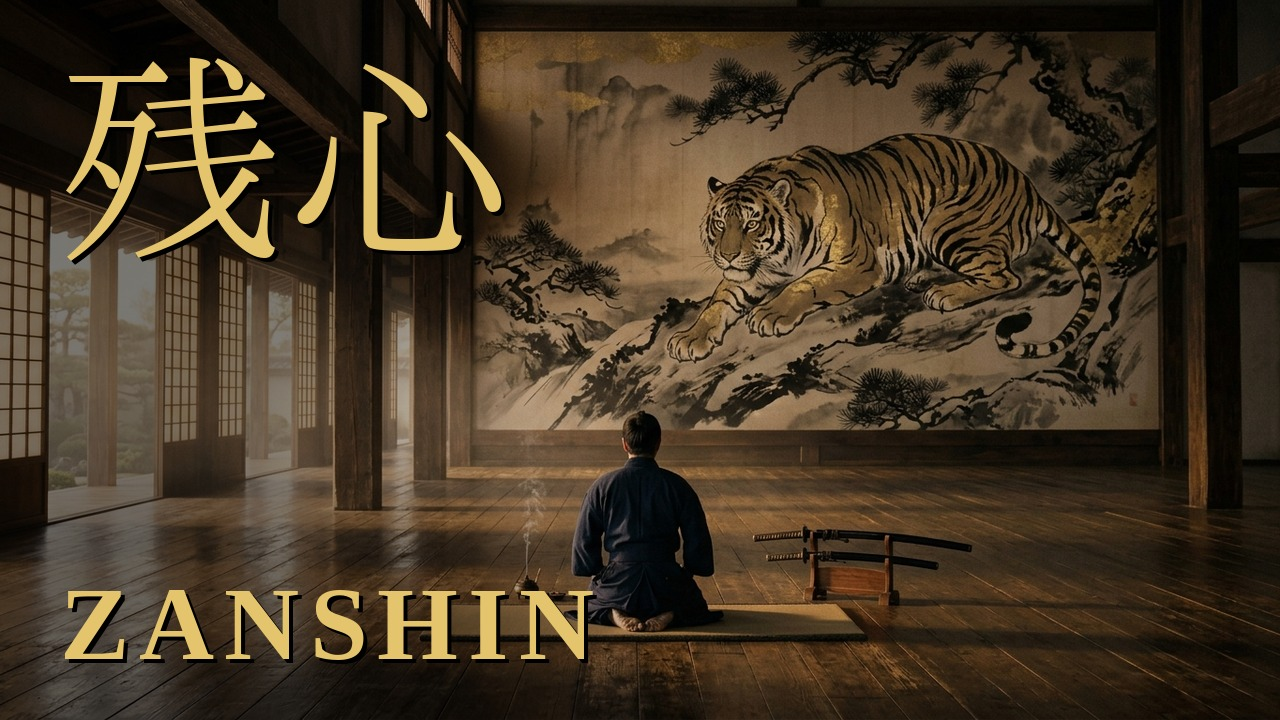
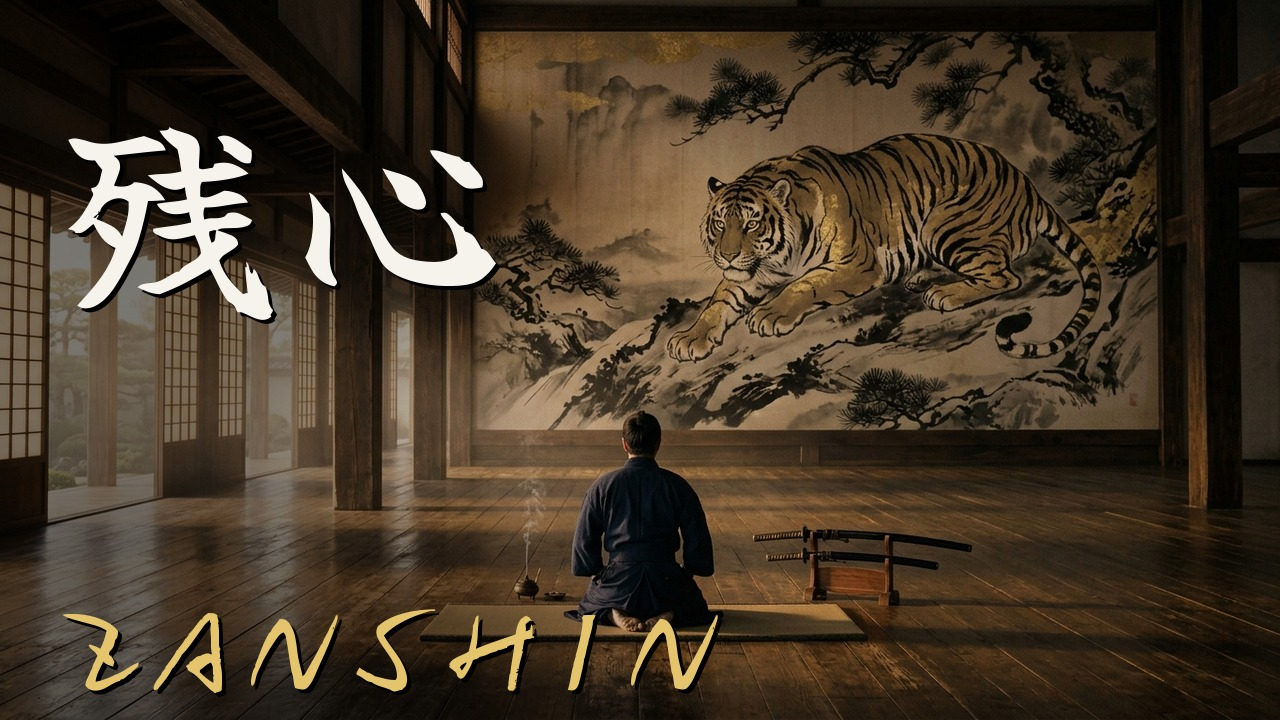
ZANSHIN thumbnail v2: brush calligraphy (Yuji Boku) matching the Short — 残心 white ink + ZANSHIN gold
Claude-Session: https://claude.ai/code/session_014rUxCAgr4C7iAmMHbP4fFt

Changed region(s): [[0.0312, 0.0611, 0.4062, 0.4583], [0.0312, 0.7944, 0.5625, 0.9778], [0.2812, 0.0917, 0.3125, 0.1222]]

diff --git a/stillwave/assets/zanshin-2h-compose-thumb.py b/stillwave/assets/zanshin-2h-compose-thumb.py
@@ -18,22 +18,23 @@ SRC = HERE / "zanshin-2h-source.jpg"
 OUT = HERE / "zanshin-2h-thumb.jpg"
 
 W, H = 1280, 720
-GOLD = (228, 196, 108)               # #E4C46C
-SHADOW = (0, 0, 0, 180)
+GOLD = (228, 196, 108)               # #E4C46C — ZANSHIN
+INK = (246, 243, 236)                # near-white brush ink — 残心
+SHADOW = (0, 0, 0, 190)
 
-KANJI_FONT = "/usr/share/fonts/opentype/ipafont-mincho/ipam.ttf"
-ROMAJI_FONT = "/usr/share/fonts/truetype/liberation/LiberationSerif-Bold.ttf"
+# Japanese brush calligraphy (same as the Short's reveal frame)
+BRUSH_FONT = str(Path(__file__).parent / "fonts" / "YujiBoku-Regular.ttf")
 
 KANJI = "残心"
-KANJI_SIZE = 228
-KANJI_X = 58
-KANJI_Y = 44
+KANJI_SIZE = 224
+KANJI_X = 56
+KANJI_Y = 40
 
 ROMAJI = "ZANSHIN"
-ROMAJI_SIZE = 104
-ROMAJI_X = 60
-ROMAJI_Y = 566
-ROMAJI_SPACING = 10
+ROMAJI_SIZE = 112
+ROMAJI_X = 58
+ROMAJI_Y = 560
+ROMAJI_SPACING = 8
 
 
 def fit_cover(img):
@@ -57,10 +58,10 @@ def darken(bg):
     return Image.alpha_composite(bg.convert("RGBA"), layer).convert("RGB")
 
 
-def draw_left(d, x, y, text, font, spacing):
+def draw_left(d, x, y, text, font, spacing, fill):
     for ch in text:
         d.text((x + 4, y + 4), ch, font=font, fill=SHADOW)
-        d.text((x, y), ch, font=font, fill=GOLD)
+        d.text((x, y), ch, font=font, fill=fill)
         x += d.textlength(ch, font=font) + spacing
 
 
@@ -69,8 +70,8 @@ def main():
         raise SystemExit(f"Source not found: {SRC}")
     bg = darken(fit_cover(Image.open(SRC).convert("RGB")))
     d = ImageDraw.Draw(bg)
-    draw_left(d, KANJI_X, KANJI_Y, KANJI, ImageFont.truetype(KANJI_FONT, KANJI_SIZE), 0)
-    draw_left(d, ROMAJI_X, ROMAJI_Y, ROMAJI, ImageFont.truetype(ROMAJI_FONT, ROMAJI_SIZE), ROMAJI_SPACING)
+    draw_left(d, KANJI_X, KANJI_Y, KANJI, ImageFont.truetype(BRUSH_FONT, KANJI_SIZE), 6, INK)
+    draw_left(d, ROMAJI_X, ROMAJI_Y, ROMAJI, ImageFont.truetype(BRUSH_FONT, ROMAJI_SIZE), ROMAJI_SPACING, GOLD)
     bg.save(OUT, "JPEG", quality=92, optimize=True, progressive=True)
     print(f"Saved → {OUT}  ({OUT.stat().st_size // 1024} KB)")
 
